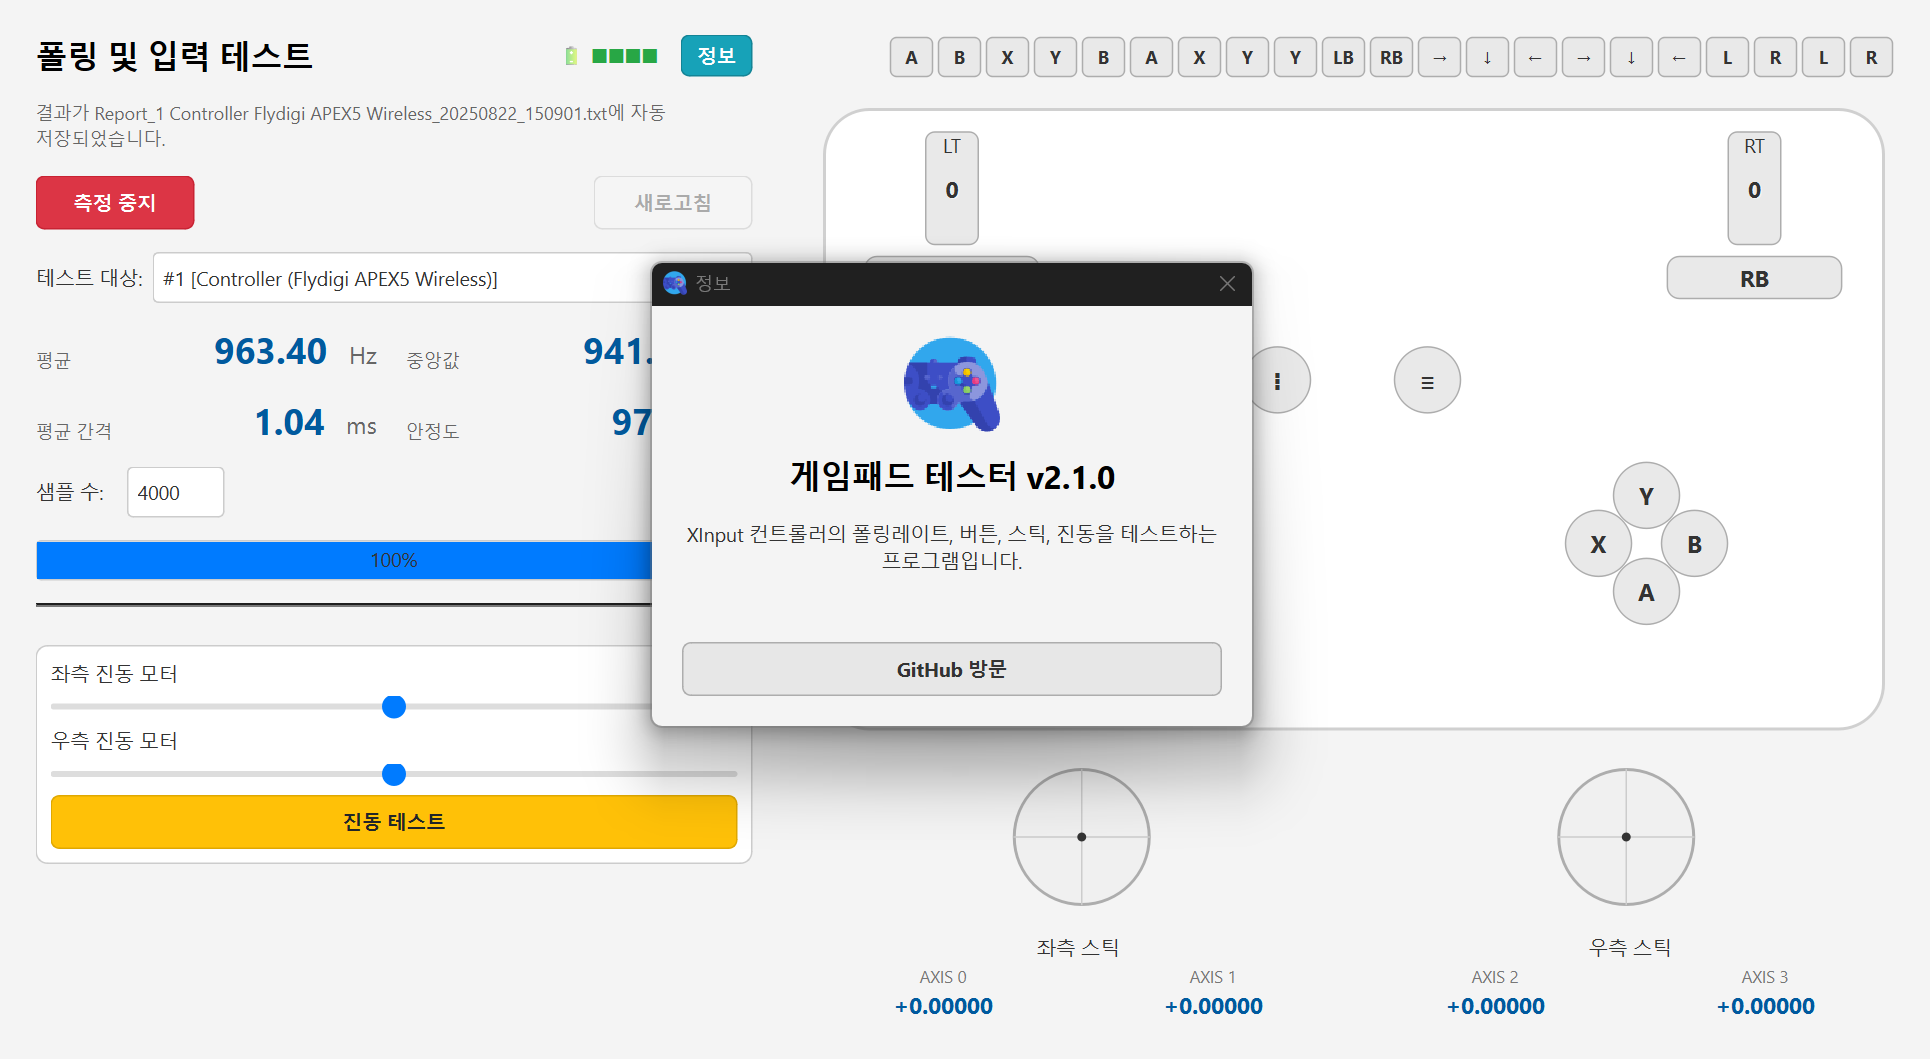
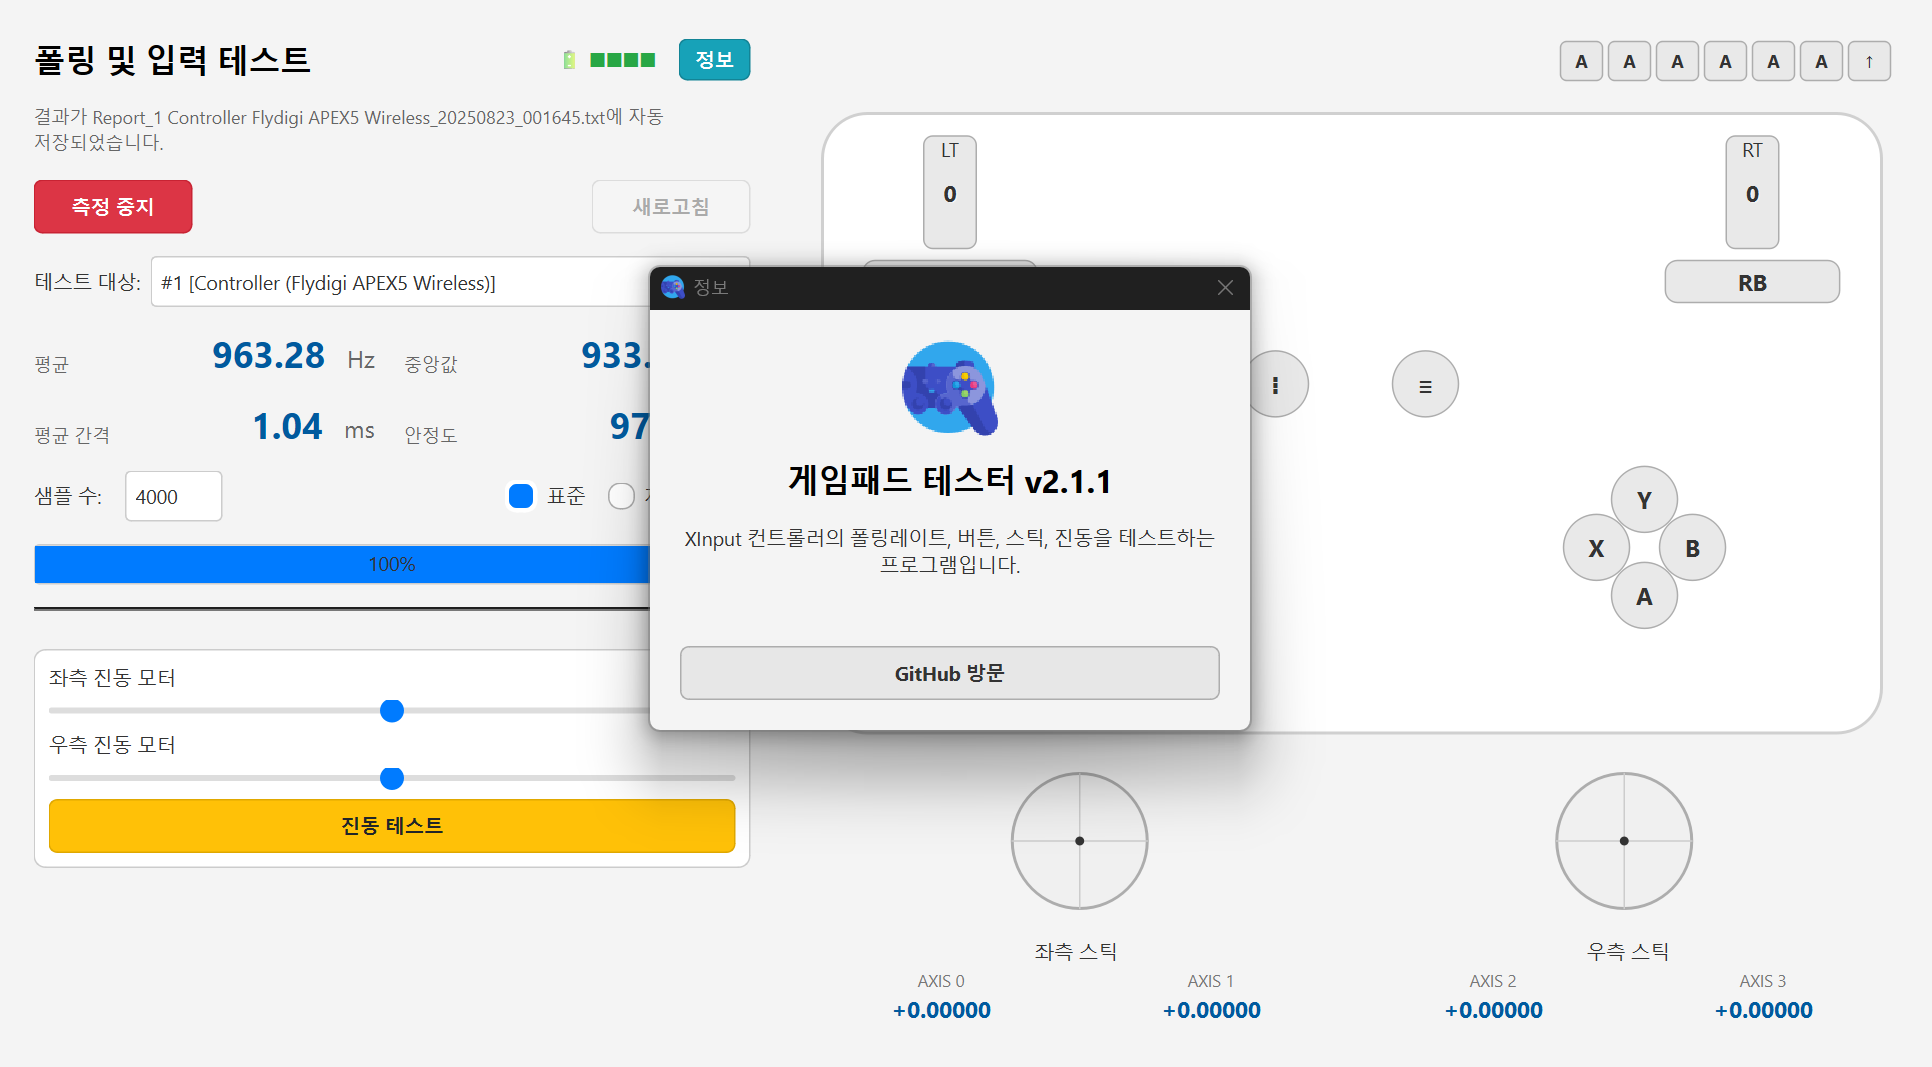
v2.1.1

diff --git a/GamePadTester.py b/GamePadTester.py
@@ -1,5 +1,5 @@
 # GamePadTester
-# Version: 2.1.0
+# Version: 2.1.1
 
 from __future__ import annotations
 import sys
@@ -30,7 +30,7 @@ import ctypes
 from ctypes import wintypes
 
 # ----- 버전 정보 -----
-VERSION = "2.1.0"
+VERSION = "2.1.1"
 
 # ----- 아이콘 데이터 -----
 # Base64로 인코딩된 64x64 PNG 아이콘 데이터를 여기에 직접 입력합니다.
@@ -165,10 +165,11 @@ class PollingThread(QThread):
     deviceError = Signal(str)
     measurementFinished = Signal()
 
-    def __init__(self, device_index: int, max_samples: int = 1000):
+    def __init__(self, device_index: int, max_samples: int = 1000, include_gyro: bool = False):
         super().__init__()
         self.device_index = device_index
         self.max_samples = max(20, int(max_samples))
+        self.include_gyro = include_gyro
         self._stop = threading.Event()
         self.xi = XInput()
         self._lock = threading.Lock() # 스레드 간 데이터 공유를 위한 Lock
@@ -193,8 +194,18 @@ class PollingThread(QThread):
             now_ns = time.perf_counter_ns()
 
             if current_state.dwPacketNumber != self._last_state.dwPacketNumber:
-                gamepad_changed = (ctypes.string_at(ctypes.byref(current_state.Gamepad), ctypes.sizeof(XINPUT_GAMEPAD)) != ctypes.string_at(ctypes.byref(self._last_state.Gamepad), ctypes.sizeof(XINPUT_GAMEPAD)))
-                if gamepad_changed:
+                
+                should_record = False
+                if self.include_gyro:
+                    # 자이로(모션) 모드: 모든 패킷 변화를 측정
+                    should_record = True
+                else:
+                    # 표준 모드: 데드존 없이 모든 게임패드 입력값의 변화를 측정
+                    gamepad_changed = (ctypes.string_at(ctypes.byref(current_state.Gamepad), ctypes.sizeof(XINPUT_GAMEPAD)) != ctypes.string_at(ctypes.byref(self._last_state.Gamepad), ctypes.sizeof(XINPUT_GAMEPAD)))
+                    if gamepad_changed:
+                        should_record = True
+
+                if should_record:
                     dt = now_ns - self._last_change_ts_ns
                     if dt > 1000:
                         with self._lock: 
@@ -205,6 +216,7 @@ class PollingThread(QThread):
                                 self.measurementFinished.emit()
                                 break
                     self._last_change_ts_ns = now_ns
+
                 self._last_state = current_state
             
             if now_ns - last_report_time_ns >= 50_000_000:
@@ -561,7 +573,7 @@ class MainWindow(QWidget):
 
     def _create_left_panel(self) -> QWidget:
         """좌측 컨트롤 패널 UI를 생성합니다."""
-        panel=QWidget(); layout=QGridLayout(panel); layout.setSpacing(15); layout.setColumnStretch(0, 1); layout.setColumnStretch(1, 1)
+        panel=QWidget(); layout=QGridLayout(panel); layout.setSpacing(15);
         
         title_layout = QHBoxLayout(); title=QLabel("폴링 및 입력 테스트"); title.setObjectName("TitleLabel"); title_layout.addWidget(title, 1)
         layout.addLayout(title_layout, 0, 0, 1, 2)
@@ -590,9 +602,19 @@ class MainWindow(QWidget):
         layout.addWidget(self.stats["mean_hz"], 4, 0); layout.addWidget(self.stats["median_hz"], 4, 1)
         layout.addWidget(self.stats["mean_ms"], 5, 0); layout.addWidget(self.stats["stability_pct"], 5, 1)
 
+        # 샘플 수 및 폴링 모드 선택을 위한 레이아웃 (UI 잘림 문제 해결)
+        row6_layout = QHBoxLayout()
         samples_layout = QHBoxLayout(); samples_layout.addWidget(QLabel("샘플 수:"))
         self.cmb_samples = QComboBox(); self.cmb_samples.addItems(["1000", "2000", "4000", "8000", "16000"]); self.cmb_samples.setCurrentText("4000")
-        samples_layout.addWidget(self.cmb_samples); samples_layout.addStretch(1); layout.addLayout(samples_layout, 6, 0, 1, 2)
+        samples_layout.addWidget(self.cmb_samples);
+        
+        gyro_layout = QHBoxLayout(); self.radio_standard = QRadioButton("표준"); self.radio_gyro = QRadioButton("자이로/모션"); self.radio_standard.setChecked(True)
+        gyro_layout.addWidget(self.radio_standard); gyro_layout.addWidget(self.radio_gyro)
+        
+        row6_layout.addLayout(samples_layout)
+        row6_layout.addStretch(1)
+        row6_layout.addLayout(gyro_layout)
+        layout.addLayout(row6_layout, 6, 0, 1, 2)
         
         self.progress_bar = QProgressBar(); self.progress_bar.setValue(0); self.progress_bar.setTextVisible(True); self.progress_bar.setFormat("%p%")
         layout.addWidget(self.progress_bar, 7, 0, 1, 2)
@@ -702,7 +724,7 @@ class MainWindow(QWidget):
         max_samples = int(self.cmb_samples.currentText())
         self.progress_bar.setMaximum(max_samples); self.progress_bar.setValue(0)
         
-        self._thread = PollingThread(self._dev_idx, max_samples)
+        self._thread = PollingThread(self._dev_idx, max_samples, self.radio_gyro.isChecked())
         self._thread.statsUpdated.connect(self.on_stats); self._thread.deviceError.connect(self.on_error); self._thread.measurementFinished.connect(self.stop_measure)
         self._thread.start()
         

diff --git a/readme.md b/readme.md
@@ -27,8 +27,11 @@
 
 ## ✨ 핵심 기능
 - **폴링레이트 분석**: 평균/중앙값(Hz·ms), 안정도(%), 샘플 수(1000/2000/4000/8000/16000) 선택
+- **자이로 감도 측정**: 표준 모드 / 자이로 모션 모드를 통해 분리 측정
 - **측정 진행도**: 폴링레이트 측정시 직관적으로 진행도를 알 수 있게 표시
 - **버튼 시각화**: D-Pad와 ABXY, **LB/RB / OPTION(≡)·MENU(⁝) / L3·R3** 상태 표시
+- **입력 로그바**: 입력한 버튼을 패드 위젯 상단에 시각화하여 바 형태로 표시
+- **배터리 확인**: 게임패드 무선 연결시 배터리 잔량 표시
 - **스틱 AXIS**: 좌·우 스틱의 AXIS 값 측정
 - **진동 테스트**: 좌·우(저주파/고주파) 모터 강도 슬라이더
 - **결과 저장**: 폴링 레이트 측정 종료와 함께 측정값을 **TXT**로 자동으로 저장
